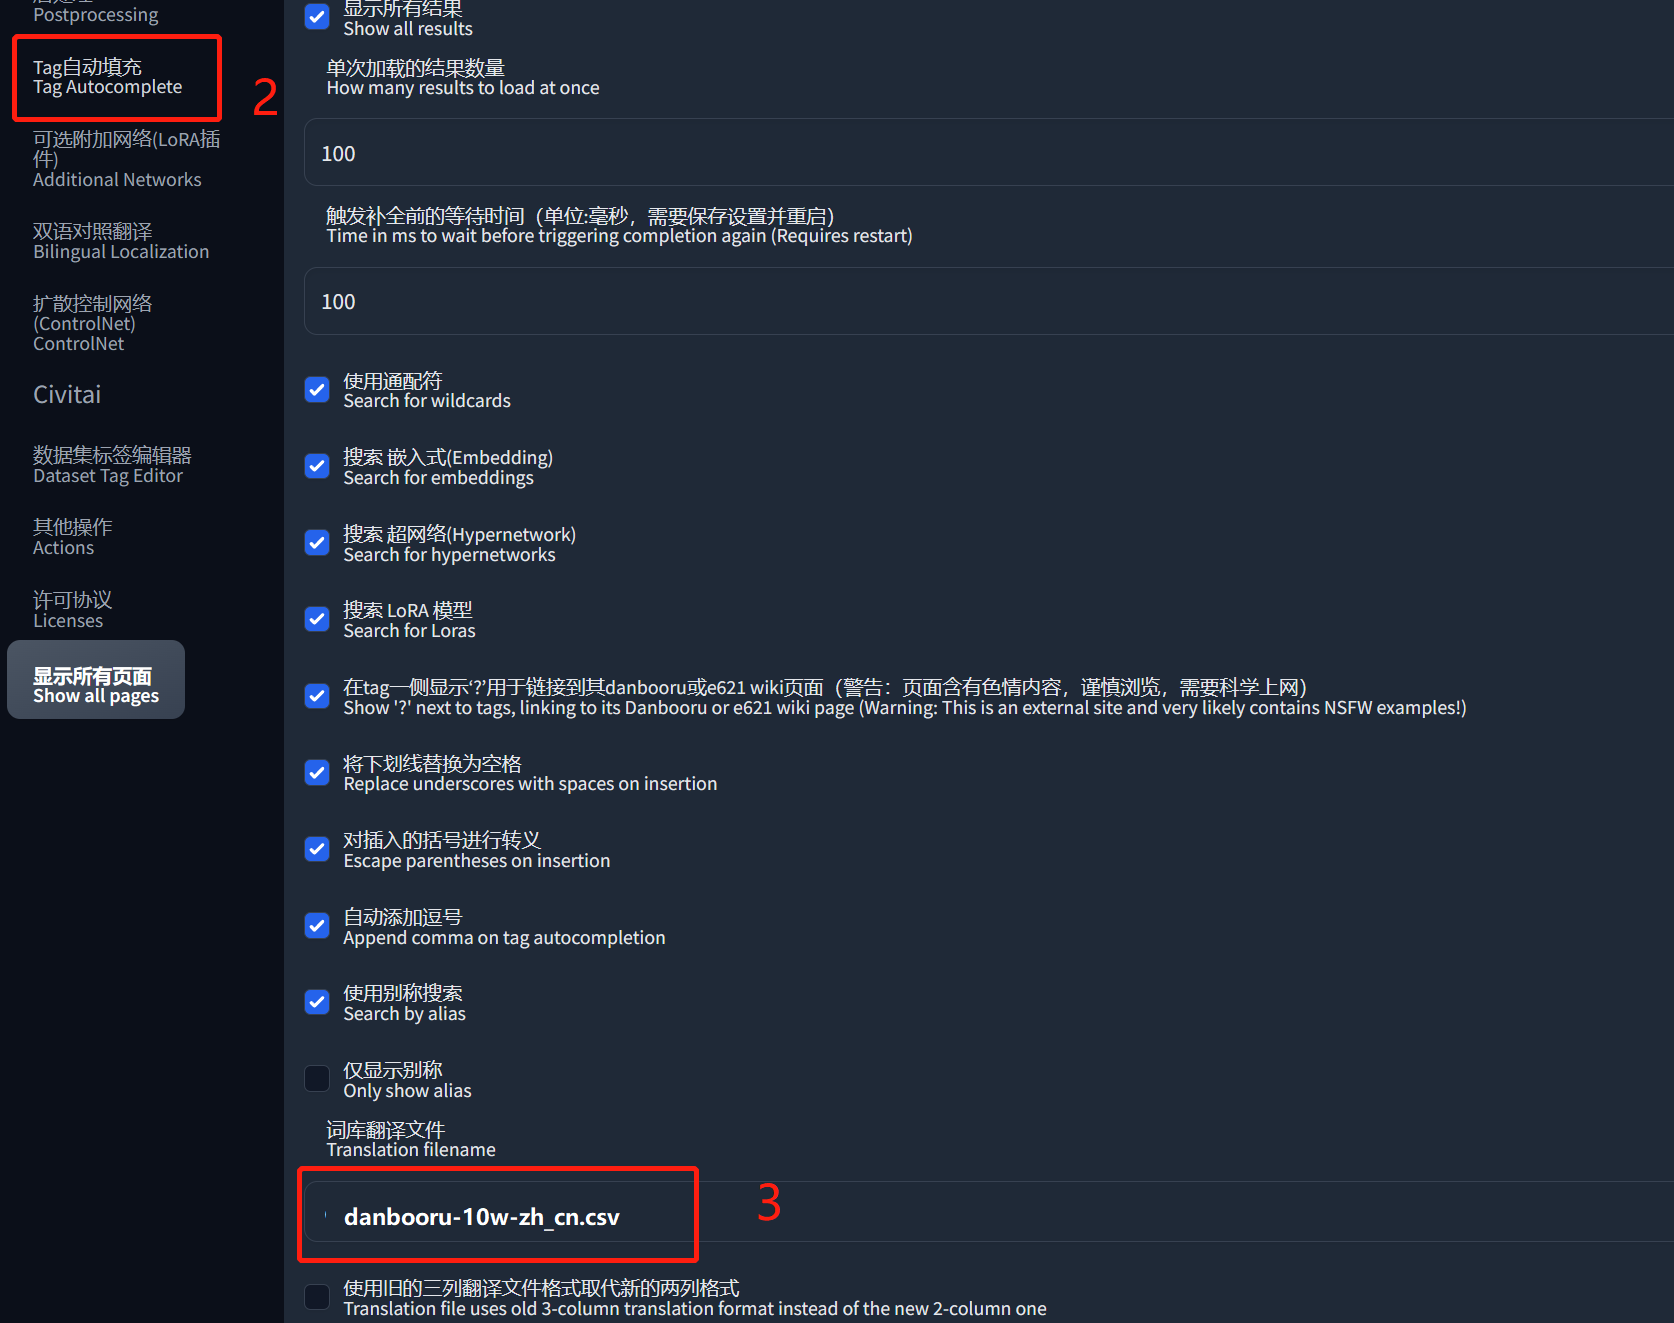
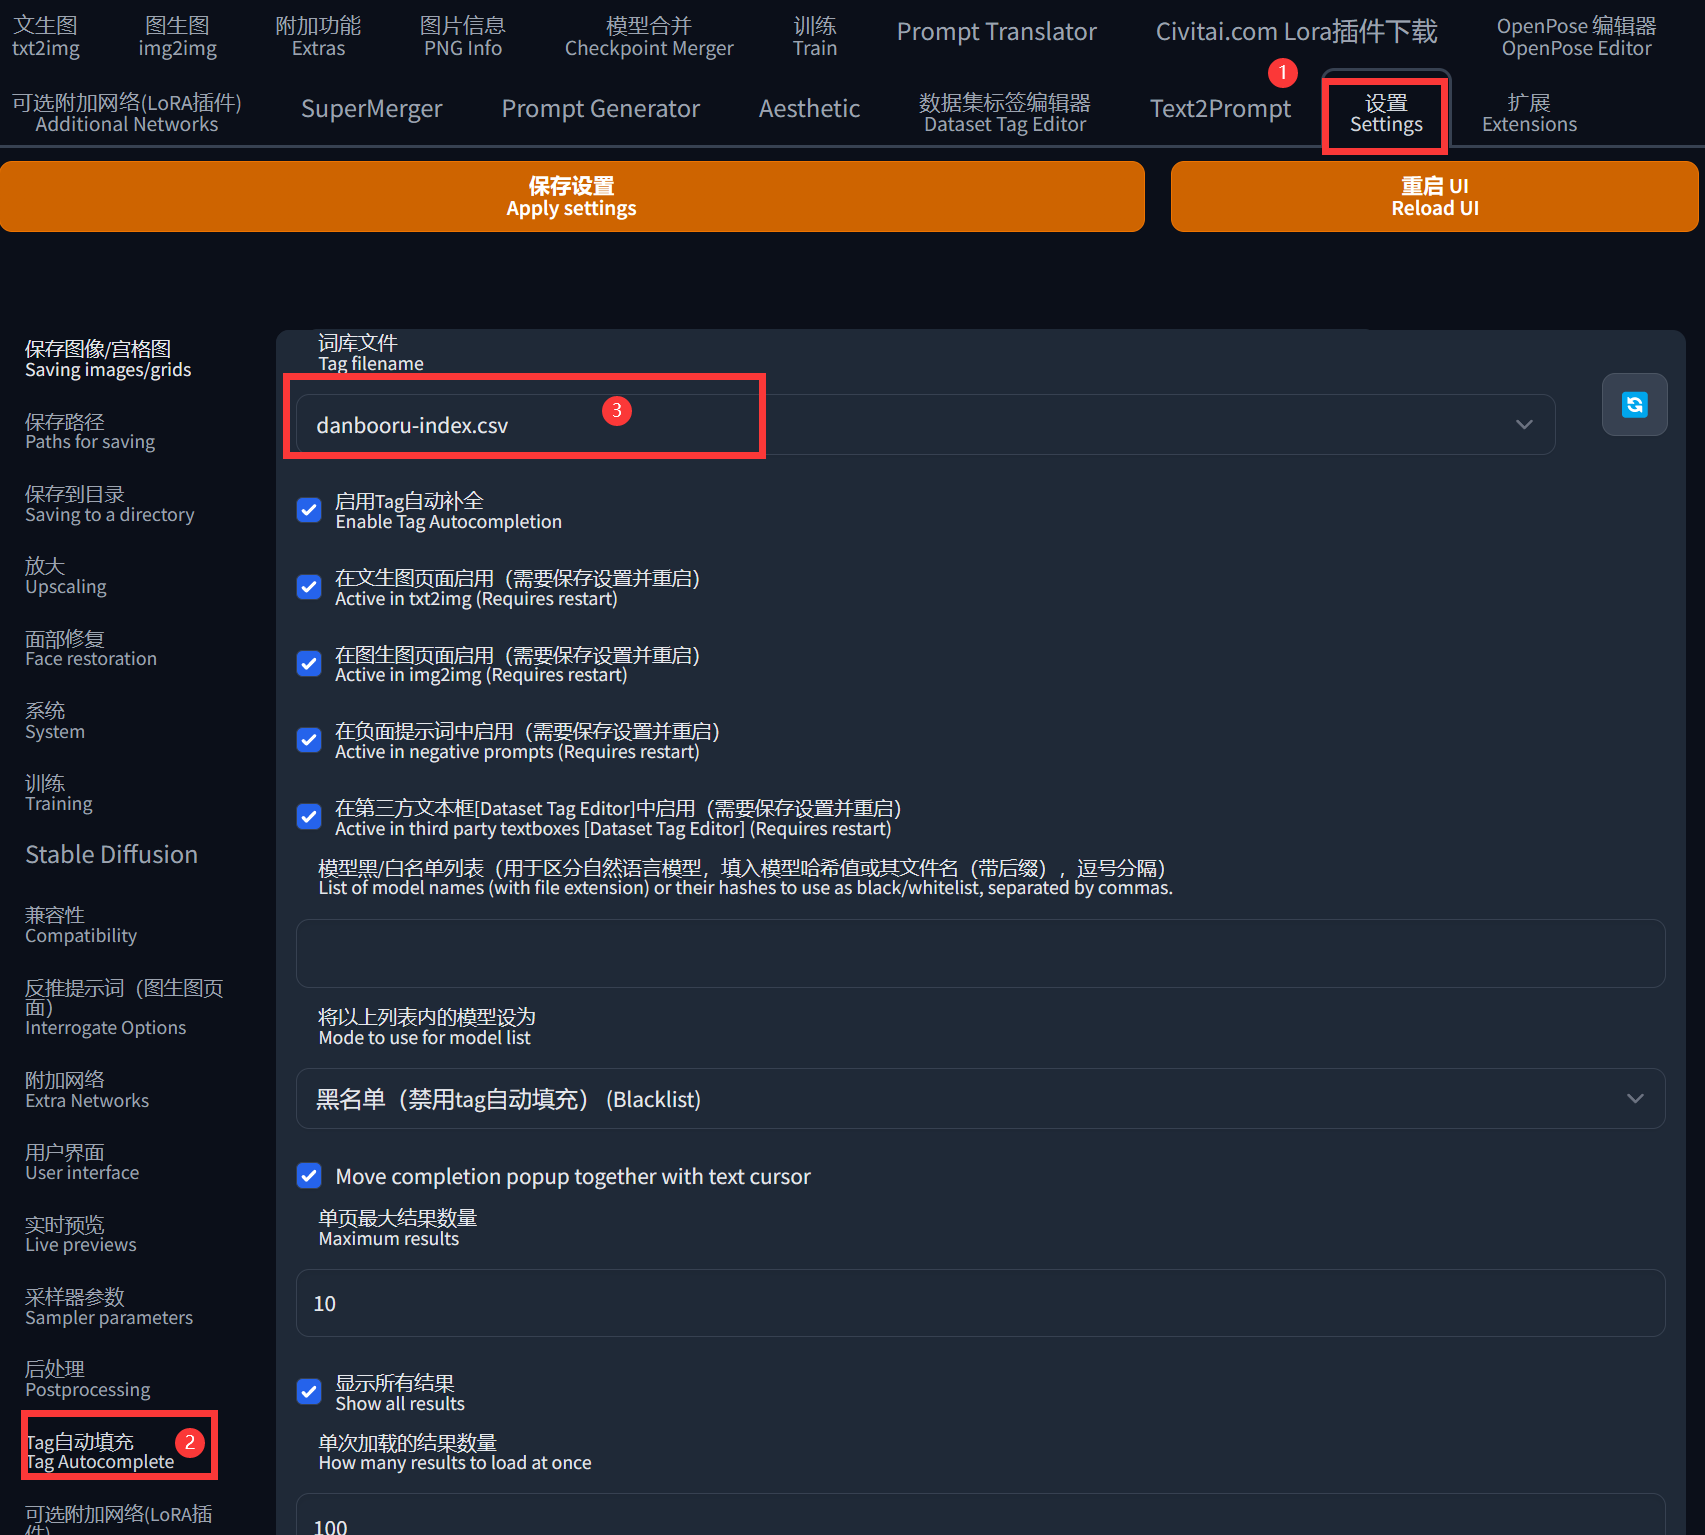
'update'

Changed region(s): [[0.0, 0.0, 1.0, 1.0], [0.4349, 0.8987, 0.4659, 0.9297]]

diff --git a/scripts/tag_autocomplete_helper.py b/scripts/tag_autocomplete_helper.py
@@ -241,7 +241,7 @@ if LORA_PATH is not None and LORA_PATH.exists():
 def on_ui_settings():
     TAC_SECTION = ("tac", "Tag Autocomplete")
     # Main tag file
-    shared.opts.add_option("tac_tagFile", shared.OptionInfo("danbooru-10w-zh_cn.csv", "Tag filename", gr.Dropdown, lambda: {"choices": csv_files_withnone}, refresh=update_tag_files, section=TAC_SECTION))
+    shared.opts.add_option("tac_tagFile", shared.OptionInfo("danbooru-index.csv", "Tag filename", gr.Dropdown, lambda: {"choices": csv_files_withnone}, refresh=update_tag_files, section=TAC_SECTION))
     # Active in settings
     shared.opts.add_option("tac_active", shared.OptionInfo(True, "Enable Tag Autocompletion", section=TAC_SECTION))
     shared.opts.add_option("tac_activeIn.txt2img", shared.OptionInfo(True, "Active in txt2img (Requires restart)", section=TAC_SECTION))

diff --git a/README.md b/README.md
@@ -1,5 +1,5 @@
 # a1111-sd-webui-tagcomplete-10w
- 10万tag简体中文翻译
+ 10万tag 自动提示简体中文翻译(安装时需要卸载或关闭已有的a1111-sd-webui-tagcomplete 插件不然会冲突)
 
  基于 https://github.com/DominikDoom/a1111-sd-webui-tagcomplete 插件
 [![GitHub release (latest SemVer)](https://img.shields.io/github/v/release/DominikDoom/a1111-sd-webui-tagcomplete)](https://github.com/DominikDoom/a1111-sd-webui-tagcomplete/releases)
@@ -18,12 +18,14 @@ Extensions -> Install from URL 填写git地址：https://github.com/inlhx/a1111-
 
  settings->TagComplete-> Translation filename
 
-
+# 按照下图设置，设置完毕记得重启，如果提示不出来肯定是下图步骤少了或者没重启
  
 
 ![tag_autocomplete_light](https://raw.githubusercontent.com/inlhx/a1111-sd-webui-tagcomplete-10w/main/img/3.png)
 
 ![tag_autocomplete_light](https://raw.githubusercontent.com/inlhx/a1111-sd-webui-tagcomplete-10w/main/img/4.png)
+
+![tag_autocomplete_light](https://raw.githubusercontent.com/inlhx/a1111-sd-webui-tagcomplete-10w/main/img/5.png)
 
 
 ![tag_autocomplete_light](https://raw.githubusercontent.com/inlhx/a1111-sd-webui-tagcomplete-10w/main/img/1.png)

diff --git a/README_ZH.md b/README_ZH.md
@@ -18,12 +18,14 @@ Extensions -> Install from URL 填写git地址：https://github.com/inlhx/a1111-
 
  settings->TagComplete-> Translation filename
 
-
+# 按照下图设置，设置完毕记得重启，如果提示不出来肯定是下图步骤少了或者没重启
  
 
 ![tag_autocomplete_light](https://raw.githubusercontent.com/inlhx/a1111-sd-webui-tagcomplete-10w/main/img/3.png)
 
 ![tag_autocomplete_light](https://raw.githubusercontent.com/inlhx/a1111-sd-webui-tagcomplete-10w/main/img/4.png)
+
+![tag_autocomplete_light](https://raw.githubusercontent.com/inlhx/a1111-sd-webui-tagcomplete-10w/main/img/5.png)
 
 
 ![tag_autocomplete_light](https://raw.githubusercontent.com/inlhx/a1111-sd-webui-tagcomplete-10w/main/img/1.png)
